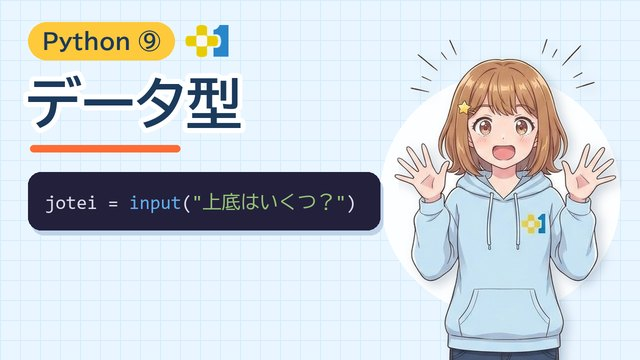
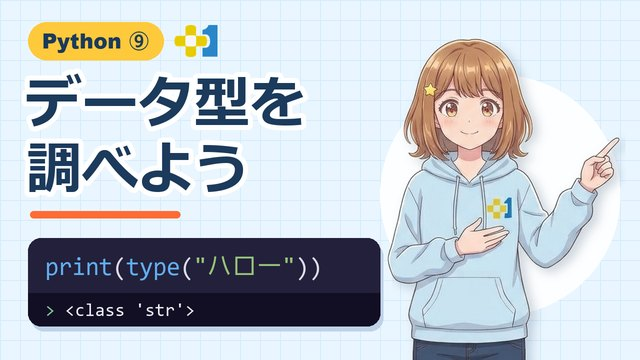
Python ナビ：ステップ9「データ型」の新しい動画を登録・仕上げ5問を新しく (#48)
- steps.json：見出し4つ（type で調べる・input の答えの型・文字と数をつなぐ・かけ算はくりかえし）＋チャレンジ3つ（3.14 の型・来年の年・☆を5こ）。動画 ey__2udfHRk（限定公開）
- 仕上げ5問：FRESH[9]（型を調べる・input の答えの型・エラーを直そう・くりかえして出す・数を文字にしてつなぐ）

diff --git a/src/data/navi/finishSteps.ts b/src/data/navi/finishSteps.ts
@@ -66,7 +66,7 @@ export const finishStepLessons: Lesson[] = [
     "unitNumber": 31,
     "subNumber": 9,
     "title": "ステップ9の仕上げ",
-    "description": "データ型（文字・数）のちがいと、型をそろえる方法",
+    "description": "データの型（str・int・float・bool）を知って、かえたり調べたりしよう",
     "difficulty": "かんたん"
   },
   {
@@ -1583,60 +1583,60 @@ export const finishStepMissions: Record<string, Mission[]> = {
     {
       "id": 1,
       "type": "quiz",
-      "title": "文字にそろえる",
+      "title": "型を調べる",
       "description": "このコードを実行すると、何が出る？",
-      "codeToRead": "print(\"ハロー\" + str(5))",
+      "codeToRead": "print(type(10))",
       "choices": [
-        "ハロー 5",
-        "ハロー5",
-        "エラーになる"
+        "<class 'str'>",
+        "<class 'int'>",
+        "<class 'float'>"
       ],
       "correctAnswer": 1,
-      "expectedOutput": "ハロー5",
-      "hint": "str(5) は、5 を文字の \"5\" にするよ。",
-      "explanation": "str(5) で文字にそろえたので、+ でつながって「ハロー5」。スペースは入らないよ。",
+      "expectedOutput": "<class 'int'>",
+      "hint": "10 は、点のない数だね。",
+      "explanation": "10 は整数なので int。4.5 のように点があると float、\" \" でかこむと str だよ。",
       "availableBlocks": []
     },
     {
       "id": 2,
       "type": "quiz",
-      "title": "文字 × 数",
-      "description": "このコードを実行すると、何が出る？",
-      "codeToRead": "print(\"ワン\" * 2)",
+      "title": "input の答えの型",
+      "description": "このコードを実行して「7」と入れると、何が出る？",
+      "codeToRead": "kotae = input(\"数は？\")\nprint(type(kotae))",
       "choices": [
-        "ワンワン",
-        "ワン2",
-        "エラーになる"
+        "<class 'str'>",
+        "<class 'int'>",
+        "7"
       ],
       "correctAnswer": 0,
-      "expectedOutput": "ワンワン",
-      "hint": "文字に * で数をかけると…？",
-      "explanation": "文字 * 数 は、その回数だけくりかえすよ。",
+      "expectedOutput": "<class 'str'>",
+      "hint": "input の答えは、数に見えても…？",
+      "explanation": "input の答えはいつも文字（str）。数にするなら int( ) か float( ) でかこもう。",
       "availableBlocks": []
     },
     {
       "id": 3,
       "type": "quiz",
       "title": "エラーを直そう",
-      "description": "実行したら「TypeError: can only concatenate str (not \"int\") to str」と出た。どう直す？",
-      "codeToRead": "print(\"ハロー\" + 10)",
+      "description": "「TypeError」と出た。どう直す？",
+      "codeToRead": "nensei = 3\nprint(\"ぼくは\" + nensei + \"年生\")",
       "choices": [
-        "print を Print にする",
-        "\"ハロー\" を str(\"ハロー\") にする",
-        "10 を str(10) にする"
+        "nensei を \"nensei\" にする",
+        "3 を 3.0 にする",
+        "2行目の nensei を str(nensei) にする"
       ],
       "correctAnswer": 2,
-      "expectedOutput": "10 を str(10) にする",
-      "hint": "文字と数は、そのままでは + できないよ。",
-      "explanation": "10 を str(10) にして、文字どうしにそろえると + でつなげられるよ。",
+      "expectedOutput": "2行目の nensei を str(nensei) にする",
+      "hint": "文字と数は、+ でつなげないね。",
+      "explanation": "数の 3 を str( ) で文字にすると、+ でつなげる。\" \" でかこむと、ただの文字 nensei になってしまうよ。",
       "availableBlocks": []
     },
     {
       "id": 4,
-      "title": "数を文字にしてつなぐ",
-      "description": "str( ) を使って「ハロー10」と表示しよう！",
-      "expectedOutput": "ハロー10",
-      "correctCode": "print(\"ハロー\" + str(10))",
+      "title": "くりかえして出す",
+      "description": "「ワンワンワン」と表示しよう！",
+      "expectedOutput": "ワンワンワン",
+      "correctCode": "print(\"ワン\" * 3)",
       "availableBlocks": [
         {
           "id": "b0",
@@ -1652,56 +1652,50 @@ export const finishStepMissions: Record<string, Mission[]> = {
         },
         {
           "id": "b2",
-          "text": "\"ハロー\"",
+          "text": "\"ワン\"",
           "type": "string",
           "color": "bg-green-200"
         },
         {
           "id": "b3",
-          "text": "+",
+          "text": "*",
           "type": "operator",
           "color": "bg-orange-200"
         },
         {
           "id": "b4",
-          "text": "str",
-          "type": "function",
-          "color": "bg-yellow-200"
-        },
-        {
-          "id": "b5",
-          "text": "10",
+          "text": "3",
           "type": "number",
           "color": "bg-yellow-100"
         },
         {
-          "id": "b6",
+          "id": "b5",
           "text": ")",
           "type": "bracket",
           "color": "bg-gray-200"
         },
         {
-          "id": "b7",
-          "text": "int",
-          "type": "function",
-          "color": "bg-yellow-200"
+          "id": "b6",
+          "text": "+",
+          "type": "operator",
+          "color": "bg-orange-200"
         }
       ],
       "rules": [
         {
-          "requires": [
-            "str("
+          "forbids": [
+            "+"
           ],
-          "message": "数を文字にそろえるには str( ) を使うよ！"
+          "message": "文字 × 数（*）で、くりかえしてみよう！"
         }
       ]
     },
     {
       "id": 5,
-      "title": "文字を数にして計算",
-      "description": "kazu には input で入れた文字の \"8\" が入っているよ。数にして 2 を足して表示しよう！",
-      "expectedOutput": "10.0",
-      "correctCode": "print(float(kazu) + 2)",
+      "title": "数を文字にしてつなぐ",
+      "description": "toshi には 10 が入っているよ。「10さいです」と表示しよう！",
+      "expectedOutput": "10さいです",
+      "correctCode": "print(str(toshi) + \"さいです\")",
       "availableBlocks": [
         {
           "id": "b0",
@@ -1717,13 +1711,13 @@ export const finishStepMissions: Record<string, Mission[]> = {
         },
         {
           "id": "b2",
-          "text": "float",
+          "text": "str",
           "type": "function",
           "color": "bg-yellow-200"
         },
         {
           "id": "b3",
-          "text": "kazu",
+          "text": "toshi",
           "type": "variable",
           "color": "bg-sky-200"
         },
@@ -1741,24 +1735,30 @@ export const finishStepMissions: Record<string, Mission[]> = {
         },
         {
           "id": "b6",
-          "text": "2",
-          "type": "number",
-          "color": "bg-yellow-100"
+          "text": "\"さいです\"",
+          "type": "string",
+          "color": "bg-green-200"
         },
         {
           "id": "b7",
-          "text": "str",
-          "type": "function",
-          "color": "bg-yellow-200"
+          "text": "\"toshi\"",
+          "type": "string",
+          "color": "bg-green-200"
         }
       ],
-      "prefixCode": "kazu = \"8\"",
+      "prefixCode": "toshi = 10",
       "rules": [
         {
-          "requires": [
-            "float("
+          "forbids": [
+            "\"toshi\""
           ],
-          "message": "文字のままでは計算できないよ。float( ) で数にしよう！"
+          "message": "\" \" でかこむと、箱の中身ではなく文字のまま出るよ！"
+        },
+        {
+          "requires": [
+            "str("
+          ],
+          "message": "数と文字を + でつなぐときは、str( ) で文字にしよう！"
         }
       ]
     }
@@ -5952,7 +5952,7 @@ export const finishStepTutorials: LessonTutorial[] = [
         "content": "さっきの動画で習ったことを、5問でたしかめます。結果を予想する問題・まちがいを直す問題・ブロックをならべる問題があります。",
         "characterMessage": "わからなくなったら、ヒントを見てね。",
         "codeExample": {
-          "good": "print(type(10))  # int"
+          "good": "print(type(\"ハロー\"))  # <class 'str'>"
         }
       }
     ]

diff --git a/scripts/build-navi-finish.py b/scripts/build-navi-finish.py
@@ -580,6 +580,23 @@ FRESH = {
           'print("面積は", tate * yoko)', "面積は 24.0", extra=["tate + yoko"], prefix="tate = 4.0\nyoko = 6.0",
           rules=[("forbids", ["tate + yoko"], "長方形の面積は、たて × よこ（*）だよ！")]),
     ]),
+    9: dict(desc="データの型（str・int・float・bool）を知って、かえたり調べたりしよう", example='print(type("ハロー"))  # <class \'str\'>', qs=[
+        Q("型を調べる", "print(type(10))", "<class 'int'>", ["<class 'str'>", "<class 'float'>"],
+          "10 は、点のない数だね。", "10 は整数なので int。4.5 のように点があると float、\" \" でかこむと str だよ。"),
+        Q("input の答えの型", 'kotae = input("数は？")\nprint(type(kotae))', "<class 'str'>", ["<class 'int'>", "7"],
+          "input の答えは、数に見えても…？", "input の答えはいつも文字（str）。数にするなら int( ) か float( ) でかこもう。",
+          desc="このコードを実行して「7」と入れると、何が出る？", run=False),
+        Q("エラーを直そう", 'nensei = 3\nprint("ぼくは" + nensei + "年生")', "2行目の nensei を str(nensei) にする",
+          ['nensei を "nensei" にする', "3 を 3.0 にする"],
+          "文字と数は、+ でつなげないね。", "数の 3 を str( ) で文字にすると、+ でつなげる。\" \" でかこむと、ただの文字 nensei になってしまうよ。",
+          desc="「TypeError」と出た。どう直す？", run=False),
+        B("くりかえして出す", "「ワンワンワン」と表示しよう！", 'print("ワン" * 3)', "ワンワンワン", extra=["+"],
+          rules=[("forbids", ["+"], "文字 × 数（*）で、くりかえしてみよう！")]),
+        B("数を文字にしてつなぐ", "toshi には 10 が入っているよ。「10さいです」と表示しよう！", 'print(str(toshi) + "さいです")', "10さいです",
+          extra=['"toshi"'], prefix="toshi = 10",
+          rules=[("forbids", ['"toshi"'], "\" \" でかこむと、箱の中身ではなく文字のまま出るよ！"),
+                 ("req", ["str("], "数と文字を + でつなぐときは、str( ) で文字にしよう！")]),
+    ]),
 }
 
 NEW_STEP = {2: 5, 3: 8, 4: 9, 5: 10, 6: 11, 7: 14, 8: 16, 9: 18, 10: 23, 11: 25, 12: 28, 13: 33, 14: 35, 15: 37,
